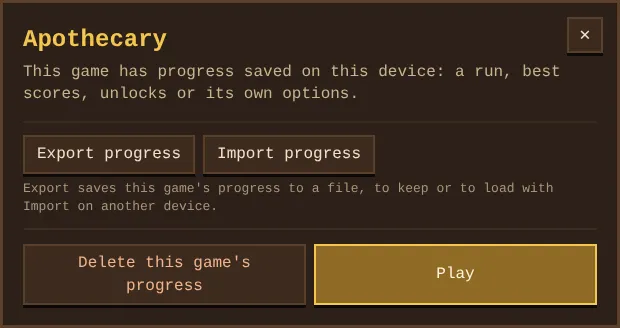
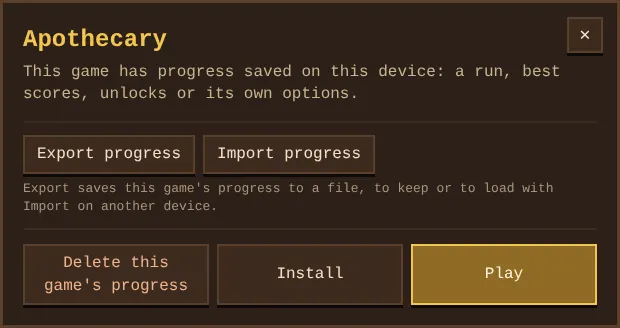
Hub: install each game from its hub card and its start and pause screens
Each game's start and pause screens show an Install button where the browser can install it, and
the Install in a game's ⚙ on the hub opens the game with ?install, which shows that button as the
main one in every browser and explains the browser's menu where there is no install prompt.

Created with Claude Opus 5.5 (low)

diff --git a/shared/startScreen.ts b/shared/startScreen.ts
@@ -4,6 +4,7 @@ import { t } from './i18n';
 import type { HowToPlay } from './howToPlay';
 import { cornerBar, volumeSliders } from './corner';
 import { resumeAudio, suspendAudio, ui, unlockAudio } from './audio';
+import { mountInstallButton } from './install';
 
 /** The key that pauses the game and resumes it. Esc is left to the games, some of which close panels with it. */
 const PAUSE_KEY = 'p';
@@ -25,6 +26,8 @@ const HELP_KEY = 'h';
  *   P, Enter, Space or Esc resume.
  * - How to play: when the game hands over its `howToPlay`, the start and pause screens get a How to
  *   play button (and the H key) that shows it in place of the card; Back, H or Esc go back.
+ * - Install: where the game can be installed as an app, the start and pause screens show an Install
+ *   button (`install.ts`).
  * While a screen is up, keys go to it and not to the game.
  */
 export function addStartScreen(game: Phaser.Game, howToPlay?: HowToPlay) {
@@ -39,6 +42,7 @@ export function addStartScreen(game: Phaser.Game, howToPlay?: HowToPlay) {
     `<button type="button" class="game-overlay-button game-start-button">${escapeHtml(t('start'))}</button>` +
     `<button type="button" class="game-overlay-button game-resume-button">${escapeHtml(t('resume'))}</button>` +
     (howToPlay ? `<button type="button" class="game-overlay-link game-help-button">${escapeHtml(t('howToPlay'))}</button>` : '') +
+    `<button type="button" class="game-overlay-link game-install-button" hidden>${escapeHtml(t('installGame'))}</button>` +
     '<div class="game-overlay-volumes"></div>' +
     '<div class="game-overlay-hint"></div>' +
     `<a class="game-overlay-hub" href="../../">${escapeHtml(t('allGames'))}</a>` +
@@ -50,6 +54,12 @@ export function addStartScreen(game: Phaser.Game, howToPlay?: HowToPlay) {
   const hint = overlay.querySelector<HTMLDivElement>('.game-overlay-hint')!;
   const help = overlay.querySelector<HTMLElement>('.game-help-body');
   overlay.querySelector('.game-overlay-volumes')!.append(...volumeSliders('pause'));
+  // Install the game as an app of its own; opened with ?install (the Install on its hub card), the
+  // button shows in every browser and stands out as the main button.
+  const installButton = overlay.querySelector<HTMLButtonElement>('.game-install-button')!;
+  const installAsked = new URLSearchParams(location.search).has('install');
+  if (installAsked) installButton.className = 'game-overlay-button game-install-button';
+  mountInstallButton(installButton, installAsked);
 
   const pauseButton = document.createElement('button');
   pauseButton.type = 'button';
@@ -303,7 +313,9 @@ function injectStyles() {
 .game-overlay:not(.start) .game-start-button,
 .game-overlay:not(.paused) .game-resume-button,
 .game-overlay:not(.paused) .game-overlay-hub,
-.game-overlay:not(.start):not(.paused) .game-help-button { display: none; }
+.game-overlay:not(.start):not(.paused) .game-help-button,
+.game-overlay:not(.start):not(.paused) .game-install-button { display: none; }
+.game-install-button[hidden] { display: none; }
 ${settings.reduceMotion ? '.game-overlay-loading span { animation: none; }' : ''}
 `;
   document.head.append(style);

diff --git a/e2e/hub.spec.ts b/e2e/hub.spec.ts
@@ -179,6 +179,7 @@ test('hub game settings, continue playing and genre filter', async ({ page }, te
   const dialog = page.getByRole('dialog', { name: 'Apothecary' });
   await expect(dialog).toContainText('This game has progress saved on this device');
   await expect(dialog.getByRole('link', { name: 'Play' })).toHaveAttribute('href', 'games/apothecary/');
+  await expect(dialog.getByRole('link', { name: 'Install' })).toHaveAttribute('href', 'games/apothecary/?install');
   testInfo.attach('game settings', { body: await dialog.screenshot({ path: testInfo.outputPath('game-settings.png') }), contentType: 'image/png' });
   page.once('dialog', (d) => d.accept());
   await dialog.getByRole('button', { name: "Delete this game's progress" }).click();
@@ -295,6 +296,8 @@ test('games have start and pause screens', async ({ page }, testInfo) => {
   await expect(page.locator('.game-start-button')).toBeVisible();
   await expect(page.locator('.game-overlay-title')).toHaveText('Apothecary');
   expect(await running(), 'paused on the start screen').toBe(false);
+  // Install shows only where the browser can install the page, which a test browser can't.
+  await expect(page.getByRole('button', { name: 'Install as an app' })).toBeHidden();
   testInfo.attach('start', { body: await page.screenshot({ path: testInfo.outputPath('start.png') }), contentType: 'image/png' });
 
   // How to play opens from the start screen, keeps the game paused, and Esc goes back.
@@ -505,4 +508,24 @@ test('hub and games install as apps', async ({ page, request }) => {
     expect(new URL(manifest.start_url, url).pathname).toBe(path);
     for (const icon of manifest.icons) expect((await request.get(new URL(icon.src, url).href)).ok()).toBe(true);
   }
+});
+
+// The Install on a game's hub card opens the game with ?install: its start screen shows Install as
+// the main button in every browser, and where the browser has no install prompt it says how.
+test('a game installs from its start screen', async ({ page }, testInfo) => {
+  await page.addInitScript(() => Object.assign(window, { showStartScreen: true }));
+  await page.goto('/games/apothecary/?install');
+  const install = page.getByRole('button', { name: 'Install as an app' });
+  await expect(install).toBeVisible();
+  await expect(install).toHaveClass(/game-overlay-button/);
+  testInfo.attach('install', { body: await page.screenshot({ path: testInfo.outputPath('install.png') }), contentType: 'image/png' });
+  let hint = '';
+  page.once('dialog', (d) => {
+    hint = d.message();
+    d.accept();
+  });
+  await install.click();
+  await expect.poll(() => hint).toBe("To install, pick Install app or Add to Home Screen in your browser's menu.");
+  await page.locator('.game-start-button').click();
+  await expect(install).toBeHidden();
 });

diff --git a/shared/install.ts b/shared/install.ts
@@ -27,11 +27,13 @@ interface InstallPrompt extends Event {
 }
 
 /**
- * Shows the hub's Install button where the app can be installed: browsers built on Chromium offer
- * their install prompt, and on iPhones and iPads the button explains Add to Home Screen. In the
- * installed app it stays hidden.
+ * Shows an Install button where the page can be installed: browsers built on Chromium offer their
+ * install prompt, and on iPhones and iPads the button explains Add to Home Screen. With `always`
+ * (a game opened with `?install` from the ⚙ on its hub card) it shows in every browser, and where
+ * there is no prompt it says how to install from the browser's menu. In the installed app it stays
+ * hidden. The hub has one next to Settings, and every game one on its start and pause screens.
  */
-export function mountInstallButton(button: HTMLButtonElement) {
+export function mountInstallButton(button: HTMLButtonElement, always = false) {
   if (installed()) return;
   let offer: InstallPrompt | undefined;
   window.addEventListener('beforeinstallprompt', (e) => {
@@ -44,10 +46,10 @@ export function mountInstallButton(button: HTMLButtonElement) {
     button.hidden = true;
   });
   const apple = /iPad|iPhone|iPod/.test(navigator.userAgent) || (/Macintosh/.test(navigator.userAgent) && navigator.maxTouchPoints > 1);
-  if (apple) button.hidden = false;
+  if (apple || always) button.hidden = false;
   button.addEventListener('click', async () => {
     if (!offer) {
-      alert(t('installAppHint'));
+      alert(t(apple ? 'installAppHint' : 'installAppMenuHint'));
       return;
     }
     await offer.prompt();

diff --git a/index.html b/index.html
@@ -103,6 +103,8 @@
           </div>
           <div class="settings-actions">
             <button type="button" id="reset-game" data-i18n="resetGame">Delete this game's progress</button>
+            <!-- A game installs from its own page, so this opens it with its Install button ready. -->
+            <a class="button" id="install-game" href="" data-i18n="installApp">Install</a>
             <a class="button primary" id="play-game" href="" data-i18n="play">Play</a>
           </div>
           <button type="button" class="close" data-i18n-label="close" aria-label="Close">✕</button>
@@ -295,6 +297,7 @@
         document.getElementById('reset-game').disabled = !saved;
         document.getElementById('export-game').disabled = !saved;
         document.getElementById('play-game').href = shown.querySelector('a').getAttribute('href');
+        document.getElementById('install-game').href = `${shown.querySelector('a').getAttribute('href')}?install`;
       };
       for (const card of cards) {
         const gear = document.createElement('button');

diff --git a/shared/i18n/de.ts b/shared/i18n/de.ts
@@ -26,7 +26,9 @@ const de: Translation<typeof en> = {
   importGameFailed: 'Das ist keine Fortschrittsdatei für {game}, oder sie wurde verändert.',
   gameFileHint: 'Exportieren speichert den Fortschritt dieses Spiels in einer Datei, zum Aufheben oder um sie mit Importieren auf einem anderen Gerät zu laden.',
   installApp: 'Installieren',
-  installAppHint: 'Zum Installieren der Spielesammlung tippe auf Teilen und dann auf „Zum Home-Bildschirm“.',
+  installAppHint: 'Zum Installieren tippe auf Teilen und dann auf „Zum Home-Bildschirm“.',
+  installAppMenuHint: 'Zum Installieren wähle im Menü deines Browsers „App installieren“ oder „Zum Startbildschirm hinzufügen“.',
+  installGame: 'Als App installieren',
   plays: { one: '{n}-mal gespielt', other: '{n}-mal gespielt' },
   continuePlaying: 'Weiterspielen',
   feedback: 'Fehler melden oder Idee teilen',

diff --git a/shared/i18n/en.ts b/shared/i18n/en.ts
@@ -26,7 +26,9 @@ const en = {
   importGameFailed: 'This is not a progress file for {game}, or it was changed.',
   gameFileHint: 'Export saves this game\'s progress to a file, to keep or to load with Import on another device.',
   installApp: 'Install',
-  installAppHint: 'To install the game hub, tap Share, then Add to Home Screen.',
+  installAppHint: 'To install, tap Share, then Add to Home Screen.',
+  installAppMenuHint: "To install, pick Install app or Add to Home Screen in your browser's menu.",
+  installGame: 'Install as an app',
   plays: { one: '{n} play', other: '{n} plays' },
   continuePlaying: 'Continue playing',
   feedback: 'Report a bug or share an idea',

diff --git a/README.md b/README.md
@@ -89,7 +89,8 @@ The hub's **Settings** button opens the settings every game shares. They are sav
 
 Each card also has a **⚙** in its corner that opens that game's own settings: whether it has
 anything saved on this device, **Export progress** and **Import progress** for just that game's
-progress (see Progress files), **Delete this game's progress** (its storage keys, which all start
+progress (see Progress files), **Install**, which opens the game ready to install as an app (see
+Install as an app), **Delete this game's progress** (its storage keys, which all start
 with its folder name, see `shared/progress.ts`) and **Play**.
 
 ![A game's own settings](docs/screenshots/hub-game-settings.webp)
@@ -177,9 +178,14 @@ games play as usual and the cards simply show no count. Nothing else is sent.
 ## Install as an app
 
 The hub and every game install as apps of their own (PWAs) that play offline: open the hub or a
-game on the site and pick **Install** (Chrome and Edge, on phones and computers; the hub also shows
-an **Install** button next to Settings) or **Share > Add to Home Screen** (Safari on iPhone and
-iPad). Each app has its own name and icon, drawn from its favicon on its background colour.
+game on the site and pick **Install** (Chrome and Edge, on phones and computers) or **Share > Add to
+Home Screen** (Safari on iPhone and iPad). The hub shows an **Install** button next to Settings, and
+every game one on its start and pause screens, where the browser can install it; the **Install** in
+a game's ⚙ on the hub opens the game with `?install`, which shows that button as the main one in
+every browser (and says how to install from the browser's menu where there is no prompt). Each app
+has its own name and icon, drawn from its favicon on its background colour.
+
+![A game's start screen opened from Install on its hub card](docs/screenshots/game-install.webp)
 
 ![The hub's and every game's app icons](docs/screenshots/app-icons.webp)
 
@@ -189,7 +195,7 @@ iPad). Each app has its own name and icon, drawn from its favicon on its backgro
   build to cache, so a deploy is a new version that replaces the old cache. Pages load from the
   network while online and from the cache offline.
 - `shared/install.ts` registers the service worker (from the hub and from `setupGame`, only in the
-  built site and never under browser automation), shows the hub's Install button, and in the
+  built site and never under browser automation), shows the Install buttons, and in the
   installed app asks the browser to keep its storage.
 - `node scripts/pwa-icons.mjs [game...]` draws the icons into `public/icons/` from the favicons.
   The build fails for a game without icons.

diff --git a/AGENTS.md b/AGENTS.md
@@ -180,8 +180,9 @@ and tries to link it to the repo (the run summary says if the link has to be mad
   English, the default language (the browser's own language is not used).
 - **Every game is an app.** The hub and every game install as apps of their own that play offline
   (`scripts/pwa.ts` makes each game's manifest from its `<title>` and background colour and writes
-  the service worker; `shared/install.ts` registers it from `setupGame`), so a game needs nothing for
-  it beyond its code and icons (see "Add a game"). Keep every file a game loads inside the build (no
+  the service worker; `shared/install.ts` registers it from `setupGame`, and the shared start and
+  pause screens show its Install button, also opened by the Install on its hub card as `?install`),
+  so a game needs nothing for it beyond its code and icons (see "Add a game"). Keep every file a game loads inside the build (no
   files fetched from other sites), so it still plays offline. Its progress exports and imports from
   the hub as an encrypted `.gh<code>` file (`shared/saveFile.ts`), which carries every storage key
   with the game's prefix.
